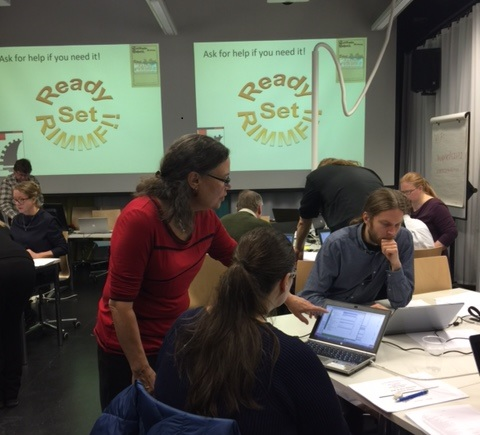
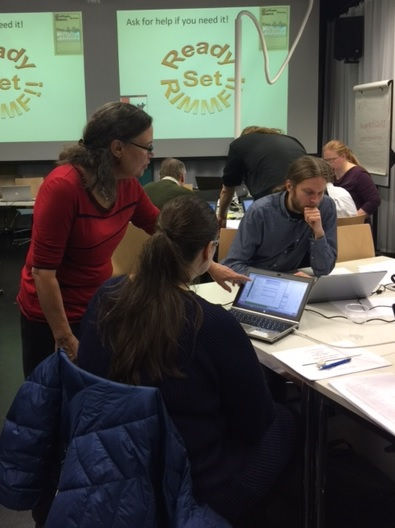
Tweaks

diff --git a/topics/p/kivi/kiviathon1/index.html b/topics/p/kivi/kiviathon1/index.html
@@ -109,7 +109,7 @@
       <p><em>Rimmfing ...</em></p>
      </div>
      <div class="rg-photo-right">
-      <a href="photos/kivi1-2.jpg"><img src="photos/kivi1-2wee.jpg" width="480" height="435" alt="Photograph taken by Katerina Sornova at the first Kiviathon" /></a>
+      <a href="photos/kivi1-2.jpg"><img src="photos/kivi1-2wee.jpg" width="395" height="528" alt="Photograph taken by Katerina Sornova at the first Kiviathon" /></a>
       <p><em>More Rimmfing ...</em></p>
      </div>
      <div class="rg-photo-left">
